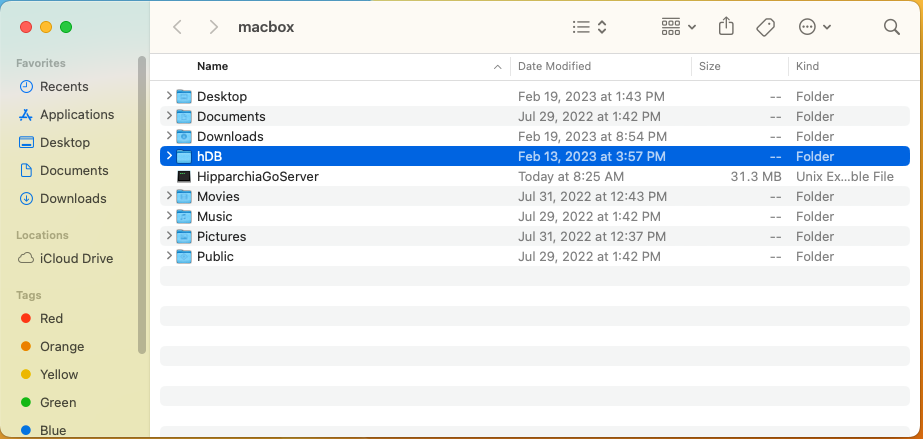
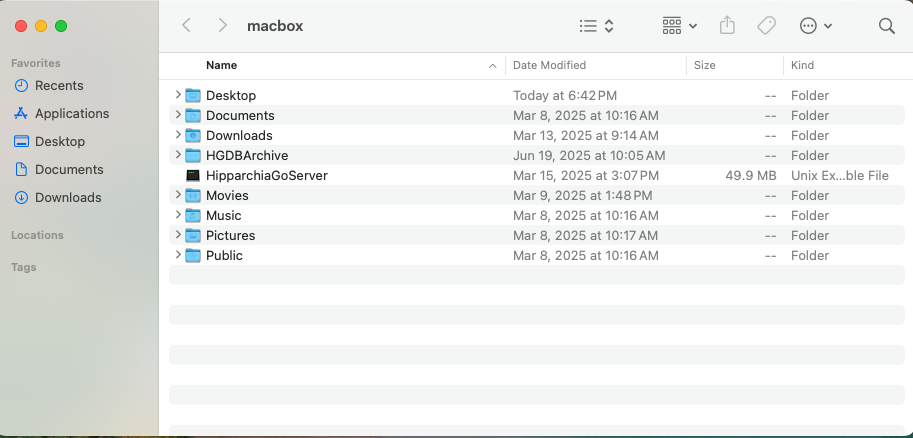
some fixes to documentation

diff --git a/internal/lnch/checkdb.go b/internal/lnch/checkdb.go
@@ -410,7 +410,7 @@ func DBSelfDestruct() {
 
 	hd, e := os.UserHomeDir()
 	Msg.EC(e)
-	cp := fmt.Sprintf(vv.CONFIGALTAPTH, hd)
+	cp := fmt.Sprintf(vv.CONFIGALTAPTH+"/", hd)
 	_ = os.Remove(cp + vv.CONFIGPROLIX)
 	Msg.CRIT(fmt.Sprintf(DONE2, cp))
 }

diff --git a/INSTRUCTIONS/INSTALLATION_MACOS_RECOMMENDED.md b/INSTRUCTIONS/INSTALLATION_MACOS_RECOMMENDED.md
@@ -2,7 +2,7 @@
 
 1. first install and configure `PostgreSQL`
 1. next acquire a binary for `HipparchiaGoServer`
-1. load `hipparchiaDB` into `PostgreSQL` on the first launch of `HipparchiaGoServer`
+1. load `hgdb` into `PostgreSQL` on the first launch of `HipparchiaGoServer`
 1. [fyi] how to archive and/or migrate the data
 1. [fyi] how to reset the database and start over
 
@@ -38,18 +38,19 @@
 
 ![inst12](./gitimg/windows/16_getbinary.png)
 
-2. If you download a file like `HipparchiaGoServer-1.1.0-darwin-amd64.zip`, it needs to be UNZIPPED. Double-clicking will do that. You will then see something like `HipparchiaGoServer-1.1.0-darwin-amd64` in the same folder.
+2. If you download a file like `HipparchiaGoServer-2.0.1-darwin-amd64.zip`, it needs to be UNZIPPED. Double-clicking will do that. You will then see something like `HipparchiaGoServer-2.0.1-darwin-amd64` in the same folder.
 
-3. This file *might* need to be RENAMED: `HipparchiaGoServer-1.1.0-darwin-amd64` --> `HipparchiaGoServer`
+3. This file *might* need to be RENAMED: `HipparchiaGoServer-2.0.1-darwin-amd64` --> `HipparchiaGoServer`
 
 ---
 
 ### [C] the first launch of `HipparchiaGoServer`: loading `hipparchiaDB` into `PostgreSQL`
 
-0. You need to have the DATA available. [The data needs to come from a `pg_dump` of a working `HipparchiaGoServer` installation. If a working installation executes `HipparchiaGoServer -ex`, it will generate a valid `hDB` folder.]
-   The data *must* reside in a folder named `hDB`. This folder has to be in the same folder as `HipparchiaGoServer`. Note that `hdb` ≠ `hDB`.
+0. You need to have the DATA available. [The data needs to come from a `pg_dump` of a working `HipparchiaGoServer` installation. If a working installation executes `HipparchiaGoServer -ex`, it will generate a valid `HGDBArchive` folder.]
+   The data *must* reside in a folder named `HGDBArchive`. This folder has to be in the same folder as `HipparchiaGoServer`.
    You can (re)move the data folder after you have successfully installed the data into the database.
 
+NB: The data will already be available if you build the database yourself with `HipparchiaGoBuilder`. And several of the steps below will be skipped. But building and running `HipparchiaGoBuilder` is beyond the scope of these instructions.
 ![inst02](./gitimg/macos_posgresapp/04_data_is_ready.png)
 
 1. macOS has been locking down access to `unsigned` applications from `unknown developers`. This is a good thing in general, but not in this case. You need to force the system to trust the application. This can only be done via `Terminal.app`. So here we go... Launch `Terminal.app` (which can be found in `/Applications/Utilities`)
@@ -60,7 +61,7 @@ open ~
 ```
 
 
- If `HipparchiaGoServer` is not in this directory (perhaps it is in `Downloads` instead...), then move it here. Also make sure that the `hDB` is here. (This really only matters for the first launch and ensuring that the command in the next step exectues properly. After the first launch the `hDB` folder can be deleted if you wish and the application can be moved elsewhere.)
+ If `HipparchiaGoServer` is not in this directory (perhaps it is in `Downloads` instead...), then move it here. Also make sure that the `HGDBArchive` is here. (This really only matters for the first launch and ensuring that the command in the next step exectues properly. After the first launch the `HGDBArchive` folder can be deleted if you wish and the application can be moved elsewhere.)
 
 ![inst02](./gitimg/macos_posgresapp/04a_firstrun_in_folder.png)
 
@@ -80,10 +81,9 @@ xattr -r -d com.apple.quarantine ./HipparchiaGoServer
 
 ![inst02](./gitimg/macos_posgresapp/04e_firstrun_db_connection.png)
 
-
 6. The database load happens the first time you run `HipparchiaGoServer`. This will take *several minutes*.
 
-7. On the first run instruction files will be dropped into your current working directory. You will be asked for the password for `hippa_wr`.
+7. On the first run instruction files will be dropped into your current working directory. You will be asked for the password for `hgdbuser`.
 
    ![inst15](./gitimg/macos_posgresapp/04_firstrun.png)
 
@@ -97,26 +97,23 @@ xattr -r -d com.apple.quarantine ./HipparchiaGoServer
 
 10. Eventually the server will launch. The self-load process only has to happen once.
 
-   ![inst02](./gitimg/macos_posgresapp/06_selfload_done.png)
-
-NB: `hippa_rd` errors are safe to ignore.
+   ![inst02](./gitimg/macos_posgresapp/06b_selfload_done.png)
 
 ![inst02](./gitimg/macos_posgresapp/06b_selfload_done.png)
 
-11. When you see `http server started on 127.0.0.1:8000` you are up and running. Now you can point a browser at http://127.0.0.1:8000.
-Whenever the server is running, your browser can interact with http://127.0.0.1:8000. You can also leave the server 
+11. When you see `http server started on 127.0.0.1:8001` you are up and running. Now you can point a browser at http://127.0.0.1:8001.
+Whenever the server is running, your browser can interact with http://127.0.0.1:8001. You can also leave the server 
 running indefinitely. It does not consume many resources if not active: 0% CPU, <1% RAM.
-
 
 ---
 
 ### [D] [FYI] Archiving / Migrating
 
-1. If you lose/destroy the `hDB` folder with the original data and want it back, the data can be extracted and archived.
+1. If you lose/destroy the `HGDBArchive` folder with the original data and want it back, the data can be extracted and archived.
 
 2. Move `HipparchiaGoServer` into your home directory. Launch `Terminal.App`
 
-3. Type `./HipparchiaGoServer -ex`. The data will be put into a new `hDB` folder in the current directory.
+3. Type `./HipparchiaGoServer -ex`. The data will be put into a new `HGDBArchive` folder in the current directory.
 
 ---
 
@@ -132,11 +129,11 @@ Make sure to read all of the terminal output and scan for these tell-tale error 
 
 *The solution*: (1) `reset` + (2) `run`; after a `reset` [see `E1` below] the next launch is a `first launch` [see `C` above and note that you have to meet the requirements there for this second step to succeed]
 
-##### [E0b] *You see*: `could not open input file "/Users/YOURUSER/hDB/toc.dat"`
+##### [E0b] *You see*: `could not open input file "/Users/YOURUSER/HGDBArchive/toc.dat"`
 
-*The problem is*: the `hDB` folder cannot be found.
+*The problem is*: the `HGDBArchive` folder cannot be found.
 
-*The solution*: make sure that the `hDB` folder is in the same folder as `HipparchiaGoServer`. [see `C0` above]
+*The solution*: make sure that the `HGDBArchive` folder is in the same folder as `HipparchiaGoServer`. [see `C0` above]
 
 #### [E1] easier reset
 
@@ -158,11 +155,11 @@ Make sure to read all of the terminal output and scan for these tell-tale error 
    ![inst01](./gitimg/macos_homebrew/01_terminal.png)
 
 2. If you want to zap everything and start over, then open `Terminal.app` and enter the following:
-- `rm ~/.config/hgs-*.json`
-- `/Applications/Postgres.app/Contents/Versions/15/bin/psql postgres` [note that `15` might change at some date]
+- `rm -rf ~/.config/HipparchiaGoServer/`
+- `/Applications/Postgres.app/Contents/Versions/17/bin/psql postgres` [note that `17` might change at some date]
 - - inside of `psql` enter the following
-- - `DROP DATABASE "hipparchiaDB";`
-- - `DROP USER hippa_wr;`
+- - `DROP DATABASE "hgdb";`
+- - `DROP USER hgdbuser;`
 - - `DROP EXTENSION pg_trgm;`
 - - `\q`
 

diff --git a/INSTRUCTIONS/INSTALLATION_WINDOWS.md b/INSTRUCTIONS/INSTALLATION_WINDOWS.md
@@ -2,7 +2,7 @@
 
 1. first install and configure `PostgreSQL`
 1. next acquire a binary for `HipparchiaGoServer`
-1. then load `hipparchiaDB` into `PostgreSQL` when running `HipparchiaGoServer` for the first time
+1. then load `hgdb` into `PostgreSQL` when running `HipparchiaGoServer` for the first time
 1. [fyi] how to archive and/or migrate the data
 1. [fyi] how to reset the database and start over
 
@@ -32,10 +32,11 @@ password at `C.2` below.
 ![inst4](./gitimg/windows/06_db_adminpass.png)
 
 5. return to accepting defaults...
+   (note that if you select a port other than `5432` the initial insertion of the data will become very tricky since the installer will default to `5342` and you will need to install with various command line options set)
 
 ![inst5](./gitimg/windows/07_dbport.png)
 
-6. this one is big: you must pick `C` as your `locale`
+6. this one is *extremely important* and not a default value: you must pick `C` as your `locale`
 
 ![inst6](./gitimg/windows/08_locale.png)
 
@@ -62,11 +63,13 @@ password at `C.2` below.
 
 ---
 
-### [C] the first launch of `HipparchiaGoServer`: loading `hipparchiaDB` into `PostgreSQL`
+### [C] the first launch of `HipparchiaGoServer`: loading `hgdb` into `PostgreSQL`
 0. You need to have the DATA available. [The data needs to come from a `pg_dump` of a working `HipparchiaGoServer` installation.]
-   The data *must* reside in a folder named `hDB`. This folder has to be in the same folder as `HipparchiaGoServer`. Note that `hdb` ≠ `hDB`.
+   The data *must* reside in a folder named `HGDBArchive`. This folder has to be in the same folder as `HipparchiaGoServer`. 
 See the image and note that both are present in the same directory. You can (re)move the data folder after you
 have successfully installed the data into the database.
+
+NB: The data will already be available if you build the database yourself with `HipparchiaGoBuilder`. And several of the steps below will be skipped. But building and running `HipparchiaGoBuilder` is beyond the scope of these instructions.
   
 ![inst13](./gitimg/windows/16b_have_binary.png)
 
@@ -91,7 +94,7 @@ PSQL administrator password you entered at `A.4` above.
 
 ![inst13](./gitimg/windows/19_loading.png)
 
-6. Now you can point a browser at http://127.0.0.1:8000. You can also leave the server running indefinitely. It does not consume many resources if not active: 0% CPU, <1% RAM.
+6. Now you can point a browser at http://127.0.0.1:8001. You can also leave the server running indefinitely. It does not consume many resources if not active: 0% CPU, <1% RAM.
 
 
 ![inst13](./gitimg/windows/19b_loaded.png)
@@ -100,11 +103,11 @@ PSQL administrator password you entered at `A.4` above.
 
 ### [D] Archiving / Migrating
 
-1. If you lose/destroy the `hDB` folder with the original data and want it back, the data can be extracted and archived.
+1. If you lose/destroy the `HGDBArchive` folder with the original data and want it back, the data can be extracted and archived.
 
 2. Move `HipparchiaGoServer` into your home directory. Launch `PowerShell`
 
-3. Type `.\HipparchiaGoServer.exe -ex`. The data will be put into a new `hDB` folder in the current directory.
+3. Type `.\HipparchiaGoServer.exe -ex`. The data will be put into a new `HGDBArchive` folder in the current directory.
 
 ---
 
@@ -121,23 +124,11 @@ PSQL administrator password you entered at `A.4` above.
 
 #### [E2] less easy
 
-1. Delete the `hgs-*.json` files in the `.config` folder of your home folder.
-
-```
-.config/hgs-prolix-conf.json
-.config/hgs-users.json
-.config/hgs-vector-conf-glove.json
-.config/hgs-vector-conf-lda.json
-.config/hgs-vector-conf-lexvec.json
-.config/hgs-vector-conf-w2v.json
-.config/hgs-vector-stops-greek.json
-.config/hgs-vector-stops-latin.json
-
-```
+1. Delete the `HipparchiaGoServer` folder in the `.config` folder of your home folder.
 
 ![inst13](./gitimg/windows/21_configfile.png)
 
-2. Launch `SQL Shell` (which can be found inside the `PostgreSQL 15` folder).
+2. Launch `SQL Shell` (which can be found inside the `PostgreSQL 17` folder).
 
 3. Gain access to the `postgres` database by hitting `RETURN` 4x: you are accepting the default supplied values;
       at the fifth stop you will need to enter the ADMIN password you set earlier in `A.4`.
@@ -145,8 +136,8 @@ PSQL administrator password you entered at `A.4` above.
 ![inst11](./gitimg/windows/13_insidesqlshell.png)
 
 4. Now enter the following:
-- `DROP DATABASE "hipparchiaDB";`
-- `DROP USER hippa_wr;`
+- `DROP DATABASE "hgdb";`
+- `DROP USER hgdbuser;`
 - `DROP EXTENSION pg_trgm;`
 - `\q`
 

diff --git a/INSTRUCTIONS/INSTALLATION_NIX.md b/INSTRUCTIONS/INSTALLATION_NIX.md
@@ -21,13 +21,13 @@
    - execute the following; use good/strong passwords and write them down:
 ```
 ALTER USER postgres WITH PASSWORD 'somespqladminpass';
-CREATE ROLE hippa_wr LOGIN ENCRYPTED PASSWORD 'somepassword' NOSUPERUSER INHERIT 
+CREATE ROLE hgdbuser LOGIN ENCRYPTED PASSWORD 'somepassword' NOSUPERUSER INHERIT 
     CREATEDB NOCREATEROLE NOREPLICATION;
-CREATE DATABASE "hipparchiaDB" WITH OWNER = hippa_wr ENCODING = 'UTF8';
+CREATE DATABASE "hgdb" WITH OWNER = hgdbuser ENCODING = 'UTF8';
 CREATE EXTENSION pg_trgm;
 \q
 ```
-4. Depending on your platform, you **might** need to tinker with your postgres configuration. Find `pg_hba.conf`. It will be somewhere like `/var/lib/pgsql/15/data/pg_hba.conf` or `/etc/postgresql/14/main/pg_hba.conf`. [it can be found via executing `SHOW hba_file;` inside the `psql` shell]
+4. Depending on your platform, you **might** need to tinker with your postgres configuration. Find `pg_hba.conf`. It will be somewhere like `/var/lib/pgsql/17/data/pg_hba.conf` or `/etc/postgresql/14/main/pg_hba.conf`. [it can be found via executing `SHOW hba_file;` inside the `psql` shell]
    - Ensure that the `METHOD` in `pg_hba.conf` is `password` and NOT `peer` or `ident`. Ensure that this is true for both `local` connections AND for `127.0.0.1/32` connections. 
    - Look at the end of the file and confirm that you see a block that looks like this:
 
@@ -40,7 +40,7 @@ CREATE EXTENSION pg_trgm;
  host    all             all             127.0.0.1/32            password
 ```
 5. IF you see that block and the `METHOD` is not right, then edit `pg_hba.conf`. 
-   - After the edit, you need to and reload the server: `sudo systemctl restart postgresql-15`, vel sim.). 
+   - After the edit, you need to and reload the server: `sudo systemctl restart postgresql-17`, vel sim.). 
 
 ---
 
@@ -55,20 +55,21 @@ CREATE EXTENSION pg_trgm;
 
 ### [C] launch `HipparchiaGoServer`
 
-0. You need to have the DATA available. [The data needs to come from a `pg_dump` of a working `HipparchiaGoServer` installation. If a working installation executes `HipparchiaGoServer -ex`, it will generate a valid `hDB` folder.]
-   The data *must* reside in a folder named `hDB`. This folder has to be in the same folder as `HipparchiaGoServer`. Note that `hdb` ≠ `hDB`.
+0. You need to have the DATA available. [The data needs to come from a `pg_dump` of a working `HipparchiaGoServer` installation. If a working installation executes `HipparchiaGoServer -ex`, it will generate a valid `HGDBArchive` folder.]
+   The data *must* reside in a folder named `HGDBArchive`. This folder has to be in the same folder as `HipparchiaGoServer`. 
    You can (re)move the data folder after you have successfully installed the data into the database.
+
+NB: The data will already be available if you build the database yourself with `HipparchiaGoBuilder`. And several of the steps below will be skipped. But building and running `HipparchiaGoBuilder` is beyond the scope of these instructions.
 1. Launch the binary: `./HipparchiaGoServer`. 
 2. The database load happens the first time you run `HipparchiaGoServer`. This will take *several minutes*.
-3. On the first run instruction files will be dropped into your current working directory. You will be asked for the passwords for `hippa_wr` and `postgres`.
+3. On the first run instruction files will be dropped into your current working directory. You will be asked for the passwords for `hgdbuser` and `postgres`.
    ![launch](./gitimg/linux/02_linux_loading.png)
 
 4. Then you will be told that the self-load is about to begin.
 5. Thousands of messages will fly across the screen.
 6. Eventually the server will launch. The self-load process only has to happen once.
-NB: `hippa_rd` errors are safe to ignore.
-7. When you see `http server started on 127.0.0.1:8000` you are up and running. You might as well click and then bookmark the following: http://127.0.0.1:8000.
-   From here on out you can just double-click to launch the program. When the server is running, your browser can interact with http://127.0.0.1:8000.
+7. When you see `http server started on 127.0.0.1:8001` you are up and running. You might as well click and then bookmark the following: http://127.0.0.1:8001.
+   From here on out you can just double-click to launch the program. When the server is running, your browser can interact with http://127.0.0.1:8001.
    You can also leave the server running indefinitely. It does not consume many resources if not active: 0% CPU, <1% RAM.
 
 ![launch](./gitimg/linux/03_linux_loaded.png)

diff --git a/INSTRUCTIONS/INSTALLATION_MACOS_HOMEBREW_DEPRECATED.md b/INSTRUCTIONS/INSTALLATION_MACOS_HOMEBREW_DEPRECATED.md
@@ -4,7 +4,7 @@ But people who already have `homebrew` installed are perhaps interested in going
 ## Installing HipparchiaGoServer
 
 1. first install and configure `PostgreSQL`
-1. next load `hipparchiaDB` into `PostgreSQL`
+1. next load `hgdb` into `PostgreSQL`
 1. next acquire a binary for `HipparchiaGoServer`
 
 ### [A] install and configure `PostgreSQL`
@@ -55,10 +55,11 @@ You also want to start the server: `brew services restart postgresql@15`
 
 ### [C] the first launch of `HipparchiaGoServer`: loading `hipparchiaDB` into `PostgreSQL`
 
-0. You need to have the DATA available. [The data needs to come from a `pg_dump` of a working `HipparchiaGoServer` installation. If a working installation executes `HipparchiaGoServer -ex`, it will generate a valid `hDB` folder.]
-   The data *must* reside in a folder named `hDB`. This folder has to be in the same folder as `HipparchiaGoServer`. Note that `hdb` ≠ `hDB`.
+0. You need to have the DATA available. [The data needs to come from a `pg_dump` of a working `HipparchiaGoServer` installation. If a working installation executes `HipparchiaGoServer -ex`, it will generate a valid `HGDBArchive` folder.]
+   The data *must* reside in a folder named `HGDBArchive`. This folder has to be in the same folder as `HipparchiaGoServer`.
    You can (re)move the data folder after you have successfully installed the data into the database.
 
+NB: The data will already be available if you build the database yourself with `HipparchiaGoBuilder`. And several of the steps below will be skipped. But building and running `HipparchiaGoBuilder` is beyond the scope of these instructions.
 ![inst02](./gitimg/macos_posgresapp/04_data_is_ready.png)
 
 1. Double-click to launch. It is possible that you will get a complaint about an UNIDENTIFIED DEVELOPER.
@@ -73,7 +74,7 @@ You also want to start the server: `brew services restart postgresql@15`
 
 2. The database load happens the first time you run `HipparchiaGoServer`. This will take *several minutes*.
 
-3. On the first run instruction files will be dropped into your current working directory. You will be asked for the password for `hippa_wr`.
+3. On the first run instruction files will be dropped into your current working directory. You will be asked for the password for `hgdbuser`.
 
    ![inst15](./gitimg/macos_posgresapp/04_firstrun.png)
 
